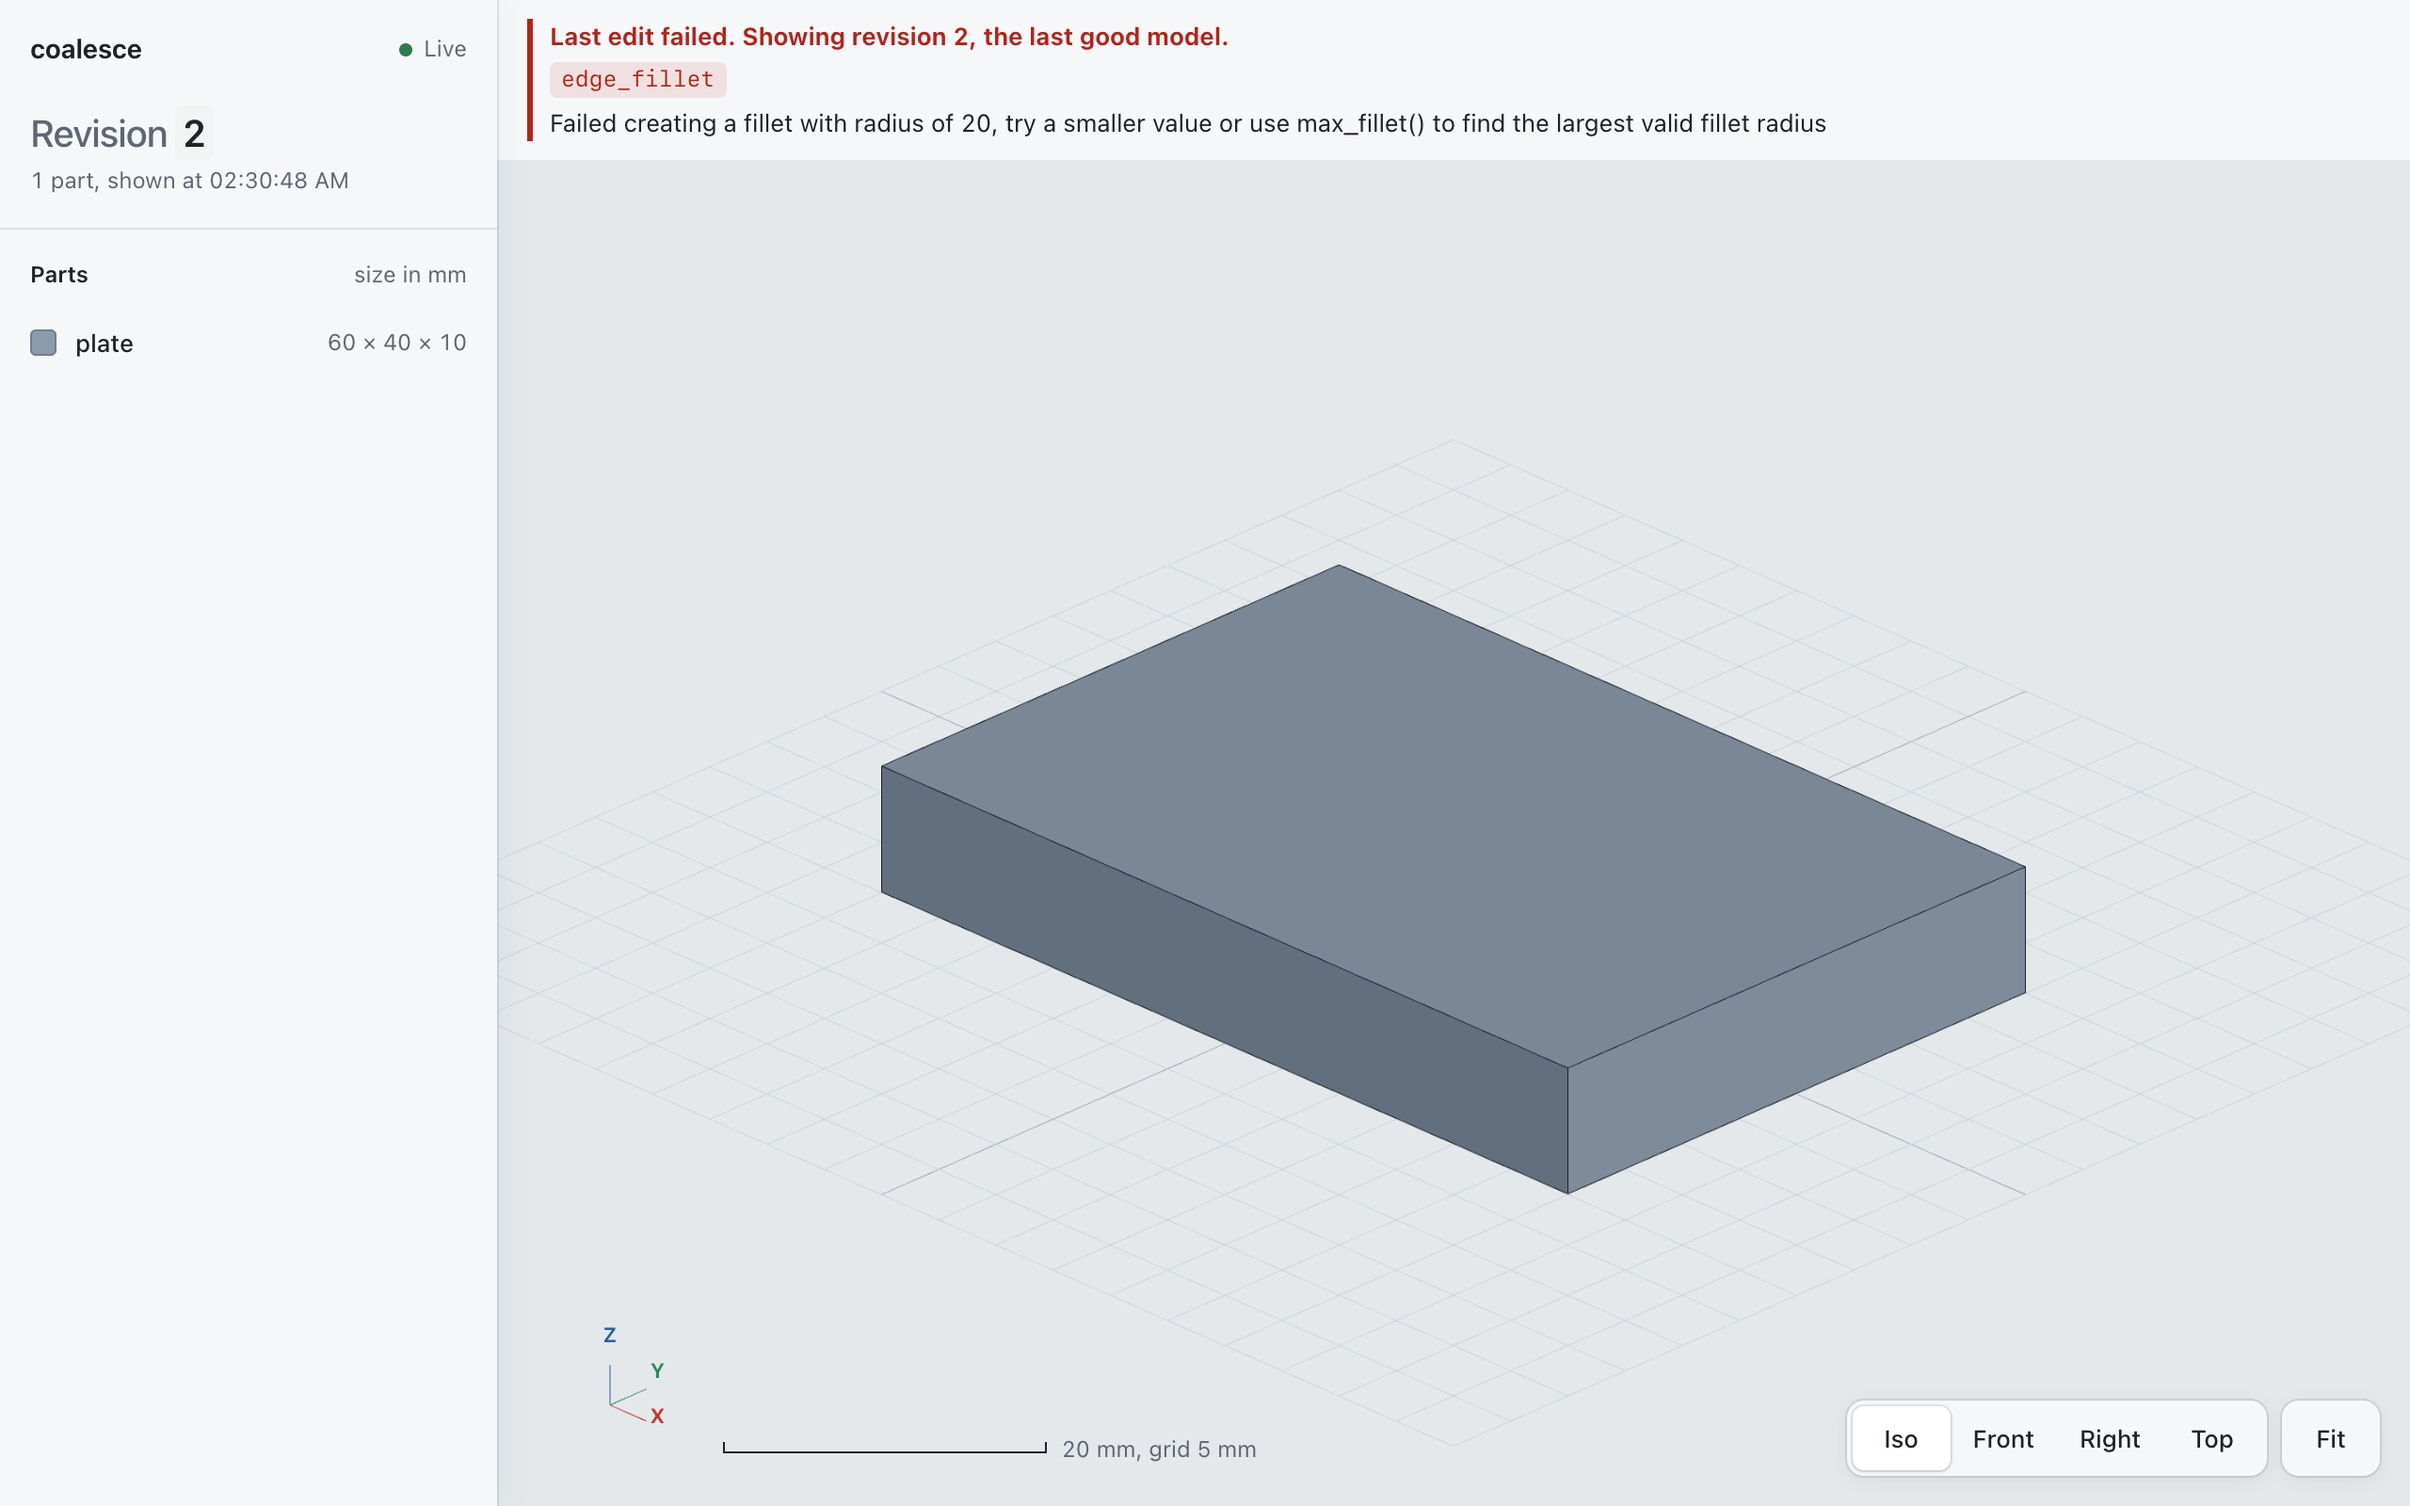
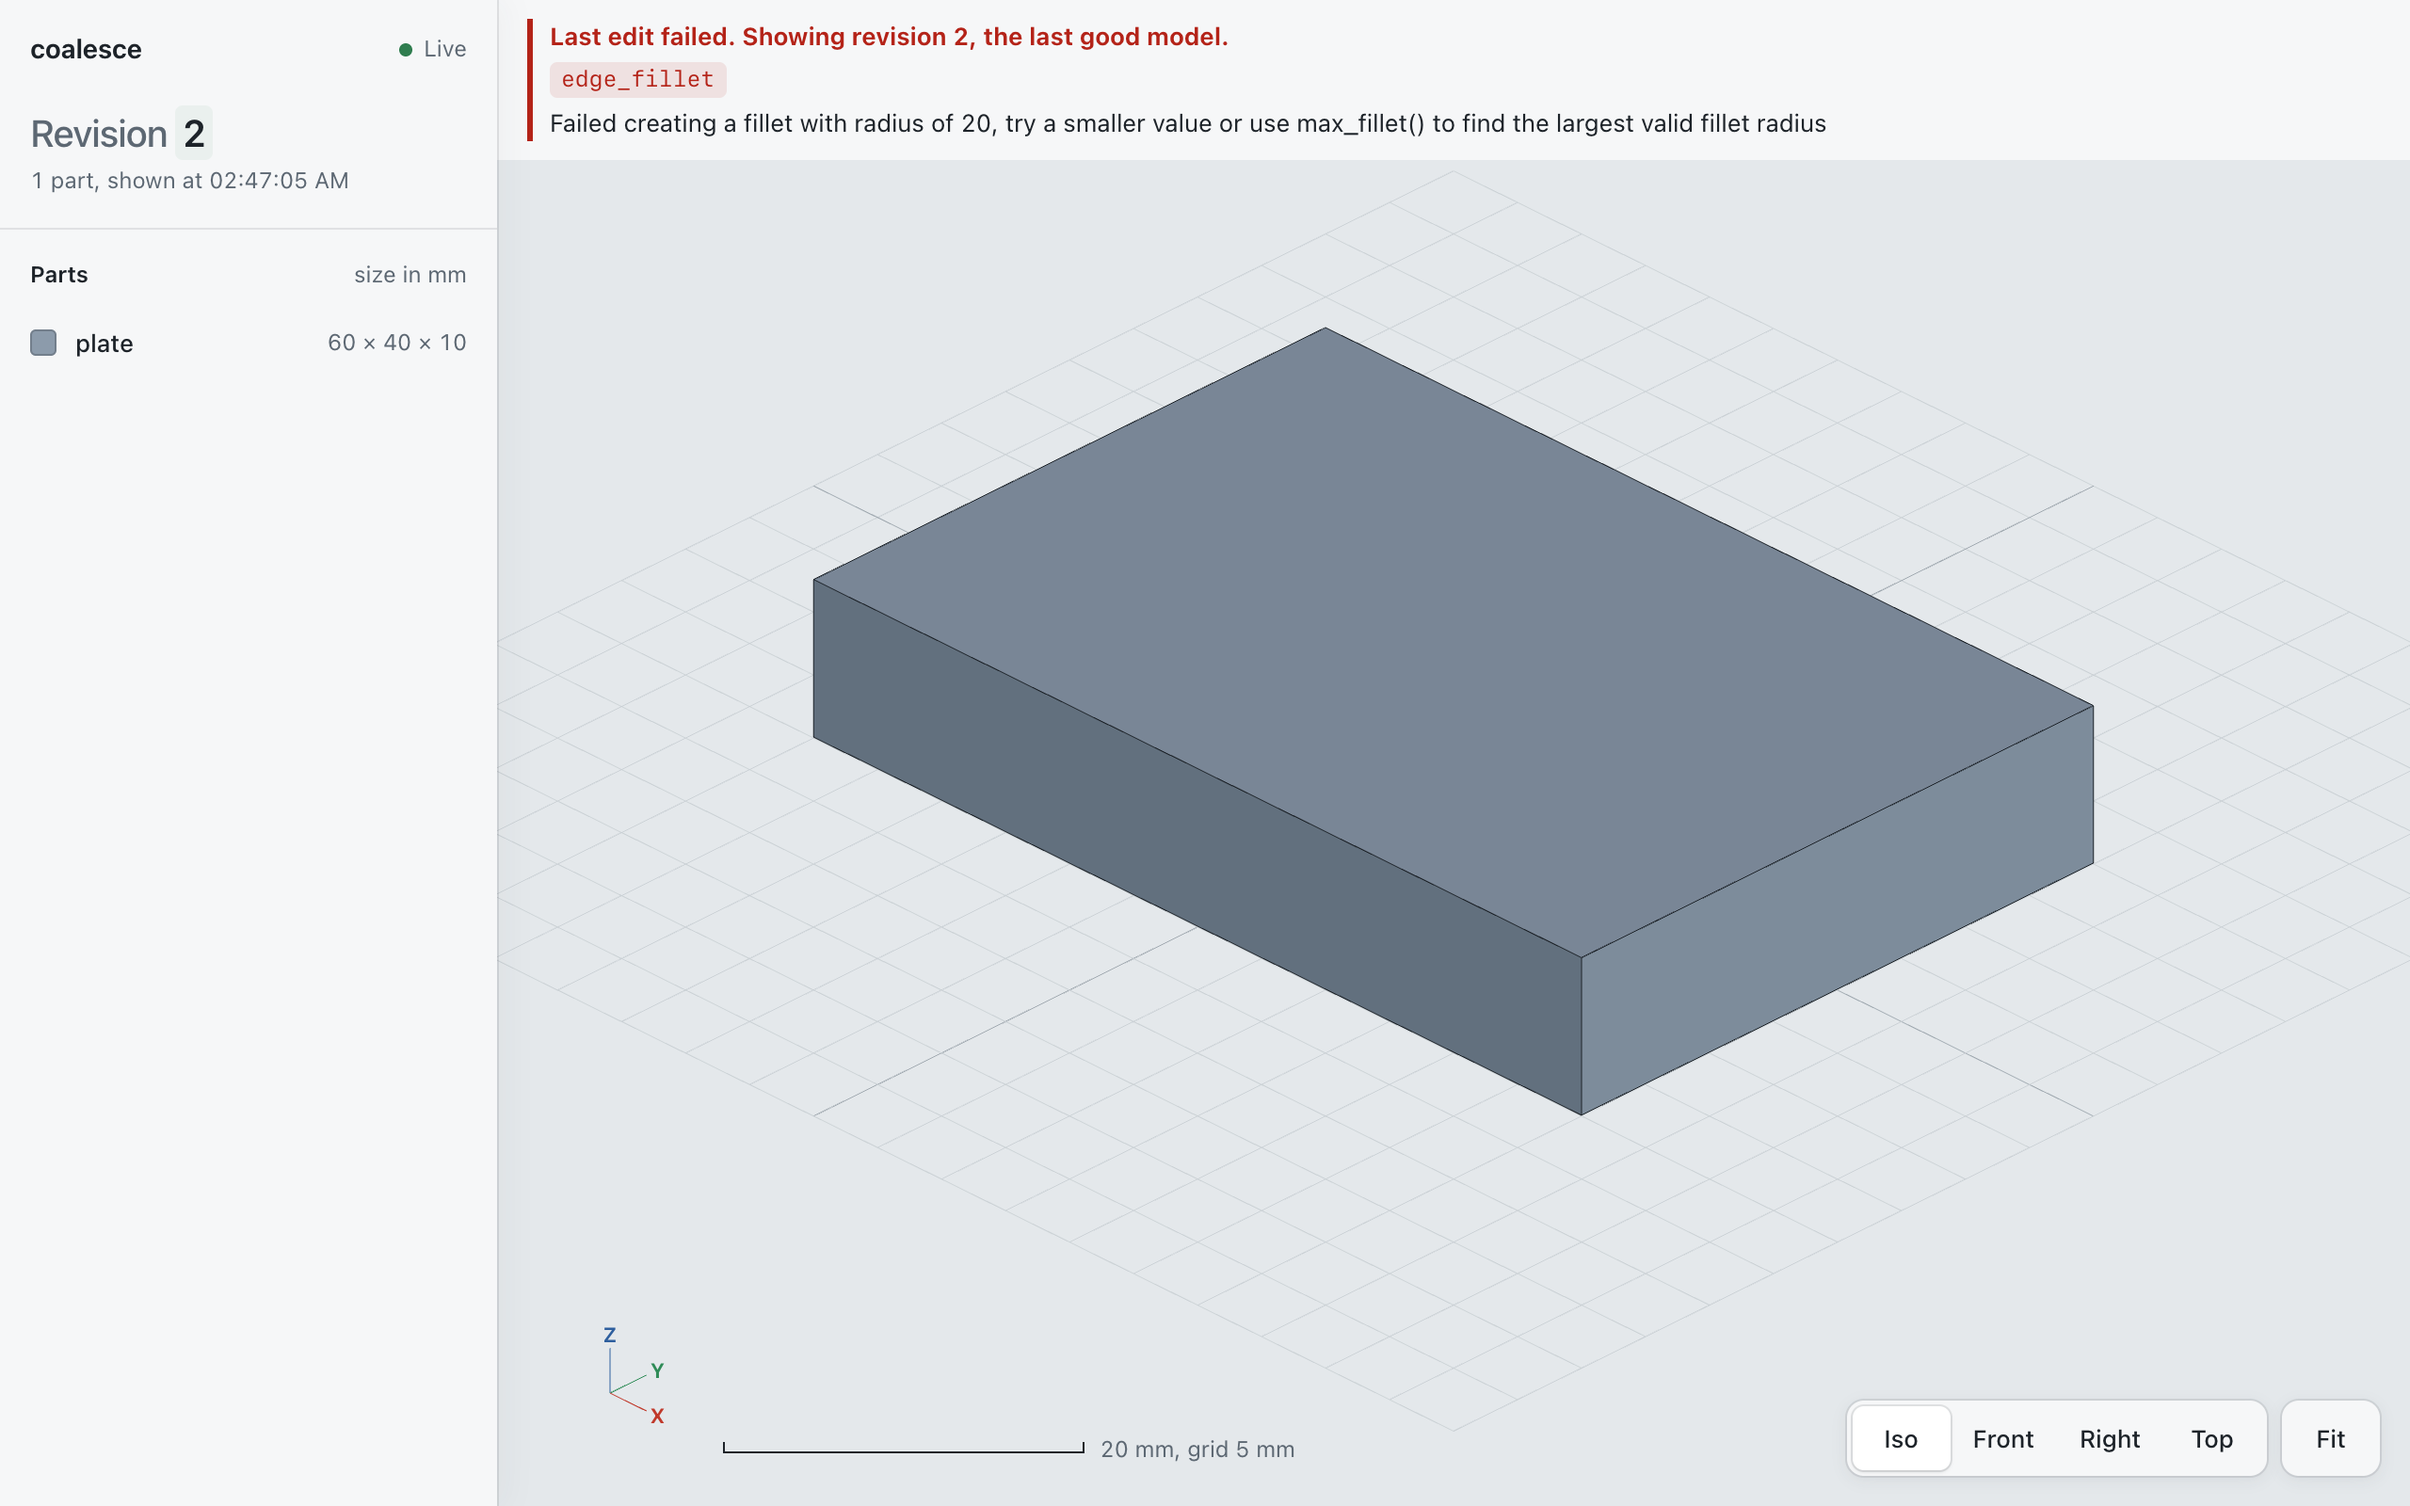
screenshots: PR #5 at fc41068 (model holds its place, expired link locks the camera)

Changed region(s): [[0.3125, 0.2188, 0.875, 0.8125], [0.4375, 0.9375, 0.5312, 0.9688], [0.0938, 0.0938, 0.125, 0.125]]

diff --git a/README.md b/README.md
@@ -1,6 +1,6 @@
 Screenshots for the viewer PR (viewer, part 1). Not for merging.
 
-Current set: PR #5 head f8f5761. Captured on macOS with headless Chromium (Playwright 1.63.0
+Current set: PR #5 head fc41068. Captured on macOS with headless Chromium (Playwright 1.63.0
 from the local npx cache, chromium-headless-shell 1243, WebGL through SwiftShader),
 1280 x 800 viewport at device scale 2. Every image comes from one run of
 `VIEWER_SCREENSHOTS=<dir> uv run --extra test pytest -q` (the full suite; the browser test
@@ -11,8 +11,14 @@ publishes real build123d plates to a `ViewerSceneStore` served by a real `Viewer
   revision-2, failure (real OCCT fillet failure), front.
 - disconnected: the server is stopped with the page open while the failure is outstanding.
 - reconnected: a server again on the same port with the same key.
-- new-link: the server restarted on the same port with a NEW key; the page stops retrying.
+- new-link: the server restarted on the same port with a NEW key; the page stops retrying,
+  labels the model stale, and turns the camera controls off.
 - no-access: a fresh browser context opens the server without the `#token=` fragment
   (now a step of the smoke driver, no longer a one-off script).
 
-Earlier sets: aa269fc (head aae5cb9), f2efafa (head c032103).
+- stress: after 50 back-to-back revisions (new in this set).
+
+Layout-shift before/after: revision-2.png vs failure.png in 2fb86d0 (before: the model jumps
+when the failure row appears) and in this set (after: the model keeps its place).
+
+Earlier sets: 2fb86d0 (head f8f5761), aa269fc (head aae5cb9), f2efafa (head c032103).
